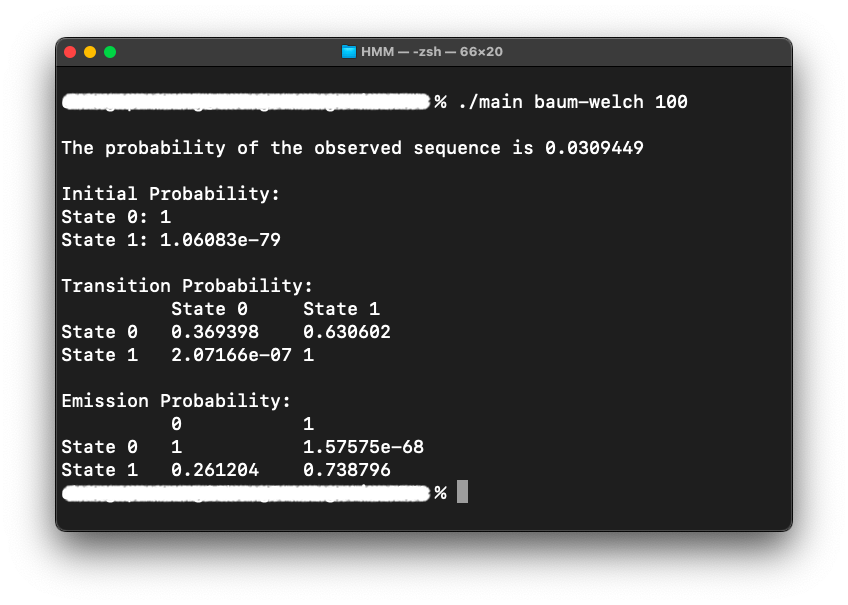
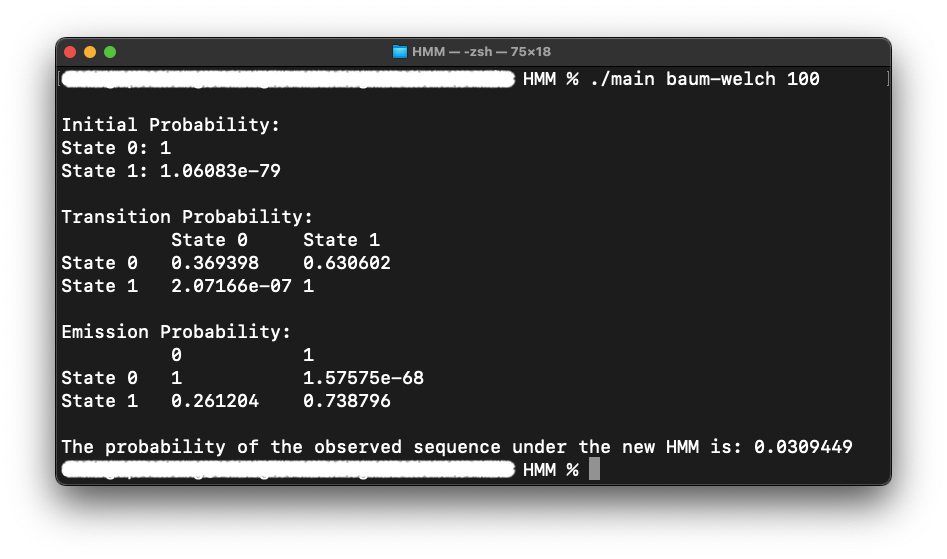
hmm update

Changed region(s): [[0.0307, 0.0608, 0.9505, 0.8819]]

diff --git a/src/scaling.cpp b/src/scaling.cpp
@@ -2,9 +2,60 @@
 #include "scaling.h"
 #include "baum_welch_algo.h"
 #include "forward_backward_algo.h"
+#include "utils.h"
 #include <math.h>
 #include <iostream>
 using namespace std;
+
+void calculate_alpha_alpha_hat_scaling_factor(long double initial_prob[2], long double transition_prob[2][2], long double emission_prob[2][2], int observed_seq[7], long double alpha[2][7], long double alpha_hat[2][7], long double scaling_factor[7]){
+    // initialize the first 2 alpha values
+    alpha[0][0] = initial_prob[0] * emission_prob[0][0];
+    alpha[1][0] = initial_prob[1] * emission_prob[1][0];
+
+    // calculate scaling factor 1
+    scaling_factor[0] = 1 / (alpha[0][0]+ alpha[1][0]);
+
+    // calculate alpha_hat at time = 1
+    alpha_hat[0][0] = alpha[0][0] / (alpha[0][0]+ alpha[1][0]);
+    alpha_hat[1][0] = alpha[1][0] / (alpha[0][0]+ alpha[1][0]);
+
+    // calculate the remaining alpha, alpha_hat, and scaling factor
+    for (int i {1}; i < 7; ++i){
+        alpha[0][i] = (alpha_hat[0][i-1] * transition_prob[0][0] + alpha_hat[1][i-1] * transition_prob[1][0]) * emission_prob[0][observed_seq[i]];
+        alpha[1][i] = (alpha_hat[0][i-1] * transition_prob[0][1] + alpha_hat[1][i-1] * transition_prob[1][1]) * emission_prob[1][observed_seq[i]];
+        scaling_factor[i] = 1 / (alpha[0][i]+ alpha[1][i]);
+        alpha_hat[0][i] = alpha[0][i] / (alpha[0][i]+ alpha[1][i]);
+        alpha_hat[1][i] = alpha[1][i] / (alpha[0][i]+ alpha[1][i]);
+    }
+}
+
+void calculate_beta_beta_hat(long double initial_prob[2], long double transition_prob[2][2], long double emission_prob[2][2], int observed_seq[7], long double beta[2][7], long double beta_hat[2][7], long double scaling_factor[7]){
+    // initialize the last beta value
+    beta[0][6] = beta[1][6] = 1;
+    beta_hat[0][6] = beta[0][6] * scaling_factor[6];
+    beta_hat[1][6] = beta[1][6] * scaling_factor[6];
+
+    // calculate beta and beta_hat
+    for (int i {5}; i >=0; --i){
+        beta[0][i] = transition_prob[0][0] * emission_prob[0][observed_seq[i+1]] * beta_hat[0][i+1] +
+                    transition_prob[0][1] * emission_prob[1][observed_seq[i+1]] * beta_hat[1][i+1];
+        beta[1][i] = transition_prob[1][0] * emission_prob[0][observed_seq[i+1]] * beta_hat[0][i+1] +
+                    transition_prob[1][1] * emission_prob[1][observed_seq[i+1]] * beta_hat[1][i+1];
+        beta_hat[0][i] = beta[0][i] * scaling_factor[i];
+        beta_hat[1][i] = beta[1][i] * scaling_factor[i];
+    }
+}
+
+void print_log_base_10_prob(long double scaling_factor[7]){
+    long double log_scaling_factor_sum {0};
+
+    for (int i {0}; i < 7; ++i){
+        log_scaling_factor_sum += log10(scaling_factor[i]);
+    }
+    
+    cout << "\nThe log base 10 probability of the observed sequence under the new HMM is " << -(log_scaling_factor_sum) << endl;
+    cout << "The probability is " << pow(10, (-log_scaling_factor_sum)) << endl;
+}
 
 void scaling(long double initial_prob[2], long double transition_prob[2][2], long double emission_prob[2][2], int observed_seq[7], long double alpha[2][7], long double beta[2][7], long double gamma[2][7], long double xi[4][6], int iteration){
     
@@ -14,40 +65,11 @@ void scaling(long double initial_prob[2], long double transition_prob[2][2], lon
 
     for (int i {0}; i < iteration; ++i){
 
-        // initialize the first 2 alpha values
-        alpha[0][0] = initial_prob[0] * emission_prob[0][0];
-        alpha[1][0] = initial_prob[1] * emission_prob[1][0];
+        // alpha, alpha hat, scaling factor
+        calculate_alpha_alpha_hat_scaling_factor(initial_prob, transition_prob, emission_prob, observed_seq, alpha, alpha_hat, scaling_factor);
 
-        // calculate scaling factor 1
-        scaling_factor[0] = 1 / (alpha[0][0]+ alpha[1][0]);
-
-        // calculate alpha_hat at time = 1
-        alpha_hat[0][0] = alpha[0][0] / (alpha[0][0]+ alpha[1][0]);
-        alpha_hat[1][0] = alpha[1][0] / (alpha[0][0]+ alpha[1][0]);
-
-        // calculate the remaining alpha, alpha_hat, and scaling factor
-        for (int i {1}; i < 7; ++i){
-            alpha[0][i] = (alpha_hat[0][i-1] * transition_prob[0][0] + alpha_hat[1][i-1] * transition_prob[1][0]) * emission_prob[0][observed_seq[i]];
-            alpha[1][i] = (alpha_hat[0][i-1] * transition_prob[0][1] + alpha_hat[1][i-1] * transition_prob[1][1]) * emission_prob[1][observed_seq[i]];
-            scaling_factor[i] = 1 / (alpha[0][i]+ alpha[1][i]);
-            alpha_hat[0][i] = alpha[0][i] / (alpha[0][i]+ alpha[1][i]);
-            alpha_hat[1][i] = alpha[1][i] / (alpha[0][i]+ alpha[1][i]);
-        }
-
-        // initialize the last beta value
-        beta[0][6] = beta[1][6] = 1;
-        beta_hat[0][6] = beta[0][6] * scaling_factor[6];
-        beta_hat[1][6] = beta[1][6] * scaling_factor[6];
-
-        // calculate beta and beta_hat
-        for (int i {5}; i >=0; --i){
-            beta[0][i] = transition_prob[0][0] * emission_prob[0][observed_seq[i+1]] * beta_hat[0][i+1] +
-                        transition_prob[0][1] * emission_prob[1][observed_seq[i+1]] * beta_hat[1][i+1];
-            beta[1][i] = transition_prob[1][0] * emission_prob[0][observed_seq[i+1]] * beta_hat[0][i+1] +
-                        transition_prob[1][1] * emission_prob[1][observed_seq[i+1]] * beta_hat[1][i+1];
-            beta_hat[0][i] = beta[0][i] * scaling_factor[i];
-            beta_hat[1][i] = beta[1][i] * scaling_factor[i];
-        }
+        // beta, beta hat
+        calculate_beta_beta_hat(initial_prob, transition_prob, emission_prob, observed_seq, beta, beta_hat, scaling_factor);
 
         // gamma probability
         calculate_gamma(alpha_hat, beta_hat, gamma);
@@ -65,11 +87,8 @@ void scaling(long double initial_prob[2], long double transition_prob[2][2], lon
         update_emission_prob(emission_prob, gamma, observed_seq);
     }
 
-    long double log_scaling_factor_sum {0};
-    for (int i {0}; i < 7; ++i){
-        log_scaling_factor_sum += log10(scaling_factor[i]);
-    }
-
-    cout << "\nThe log base 10 probability of the observed sequence is " << -(log_scaling_factor_sum) << endl;
-    cout << "The probability is " << pow(10, (-log_scaling_factor_sum)) << endl;
+    // print results
+    print_probability(initial_prob, transition_prob, emission_prob);
+    calculate_alpha_alpha_hat_scaling_factor(initial_prob, transition_prob, emission_prob, observed_seq, alpha, alpha_hat, scaling_factor);
+    print_log_base_10_prob(scaling_factor);
 }

diff --git a/main.cpp b/main.cpp
@@ -62,8 +62,9 @@ int main(int argc, char* argv[]){
         baum_welch_algo(initial_prob, transition_prob, emission_prob, observed_seq, alpha, beta, gamma, xi, iteration);
         
         // print results
-        print_prob_of_observed_seq(alpha);
         print_probability(initial_prob, transition_prob, emission_prob);
+        forward_algo(initial_prob, transition_prob, emission_prob, observed_seq, alpha);
+        print_prob_of_observed_seq_BW(alpha);
     }
     else if (strcmp(argv[1], "scaling") == 0){
         try {
@@ -79,8 +80,6 @@ int main(int argc, char* argv[]){
         // run scaled Baum-Welch algorithm
         scaling(initial_prob, transition_prob, emission_prob, observed_seq, alpha, beta, gamma, xi, iteration);
         
-        // print results
-        print_probability(initial_prob, transition_prob, emission_prob);
     }
     else{
         cout << "please enter valid argument" << endl;

diff --git a/src/utils.cpp b/src/utils.cpp
@@ -35,6 +35,10 @@ void print_prob_of_observed_seq(long double alpha[2][7]){
     cout << "\nThe probability of the observed sequence is " << (alpha[0][6]+alpha[1][6]) << endl;
 }
 
+void print_prob_of_observed_seq_BW(long double alpha[2][7]){
+    cout << "\nThe probability of the observed sequence under the new HMM is: " << (alpha[0][6]+alpha[1][6]) << endl;
+}
+
 void print_alpha(long double alpha[2][7]){
     cout << "\nAlpha:" << endl;
     cout << right << setw(10) << "Time  ";

diff --git a/src/utils.h b/src/utils.h
@@ -3,6 +3,7 @@
 
 void print_probability(long double initial_prob[2], long double transition_prob[2][2], long double emission_prob[2][2]);
 void print_prob_of_observed_seq(long double alpha[2][7]);
+void print_prob_of_observed_seq_BW(long double alpha[2][7]);
 void print_alpha(long double alpha[2][7]);
 void print_beta(long double beta[2][7]);
 void print_gamma(long double gamma[2][7]);
